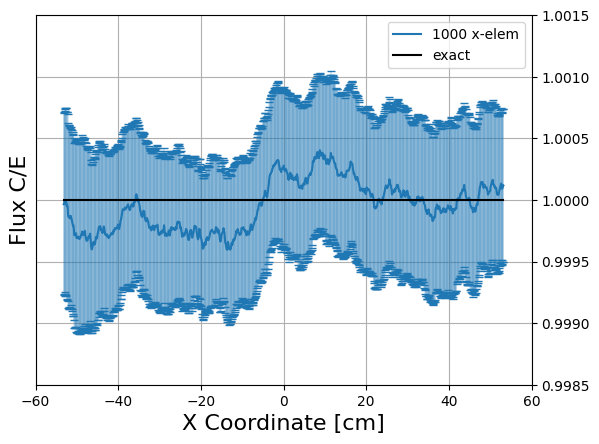
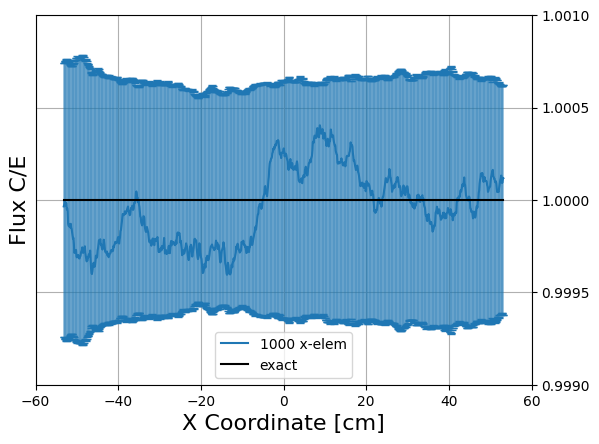
added error bars to C/E line instead

diff --git a/simulations/no_ss_no_mesh_template/restarts/re-viz/visualize_results_flux_only.py b/simulations/no_ss_no_mesh_template/restarts/re-viz/visualize_results_flux_only.py
@@ -18,9 +18,10 @@ Sig_t0 = np.sqrt(P/((lam-1)*k0*L))/(T0)
 
 # read in x coordinates from CSV
 xx = {} # key is number of elements, value is numpy array of mesh center points
+ones = {} # need a ones vector of every mesh size for the C/E
 for n in n_elems:
     xx[n] = pd.read_csv(f"openmc_{n}_temp.csv").loc[:,"x"]
-ones = np.ones(len(xx[1000]))
+    ones[n] = np.ones(len(xx[n]))
 
 # dictionaries of statepoint filenames and voxel volumes
 # key in each case is n (the number of mesh elements).
@@ -128,7 +129,7 @@ plt.clf()
 for n in n_elems:
     plt.plot(xx[n],ratios_flux_num_to_analy[n],label=f"{n} x-elem")
     # plt.errorbar(xx[n],ratios_flux_num_to_analy[n],yerr=two_sigma_r[n],marker = '|',fmt='none',elinewidth=0.25,capsize=3,capthick=1)
-plt.plot(xx[1000],ones,'k',label="exact")
+plt.plot(xx[n],ones[n],'k',label="exact")
 plt.xticks([-60,-40,-20,0,20,40,60])
 plt.yticks([1-0.6e-3,1-0.4e-3,1-0.2e-3,1,1+0.2e-3,1+0.4e-3,1+0.6e-3])
 plt.xlabel("X Coordinate [cm]",fontsize=16)
@@ -144,10 +145,10 @@ plt.clf()
 # individual C/E with error bars
 for n in n_elems:
     plt.plot(xx[n],ratios_flux_num_to_analy[n],label=f"{n} x-elem")
-    plt.errorbar(xx[n],ratios_flux_num_to_analy[n],yerr=two_sigma_r[n],marker = '|',fmt='none',elinewidth=0.25,capsize=3,capthick=1)
-    plt.plot(xx[1000],ones,'k',label="exact")
+    plt.errorbar(xx[n],ones[n],yerr=two_sigma_r[n],marker = '|',fmt='none',elinewidth=0.35,capsize=3,capthick=1)
+    plt.plot(xx[n],ones[n],'k',label="exact")
     plt.xticks([-60,-40,-20,0,20,40,60])
-    plt.yticks([1-1.5e-3,1-1e-3,1-0.5e-3,1,1+0.5e-3,1+1e-3,1+1.5e-3])
+    plt.yticks([1-1e-3,1-0.5e-3,1,1+0.5e-3,1+1e-3])
     plt.xlabel("X Coordinate [cm]",fontsize=16)
     plt.ylabel(r"Flux C/E",fontsize=16)
     plt.gca().yaxis.tick_right()
@@ -163,7 +164,7 @@ log_flux_error_norms = [np.log10(flux_error_norms[n]) for n in n_elems]
 # # linear polynomial fit to get slope of line of best fit
 # pf = np.polyfit(log_N,log_flux_error_norms,1)
 # print("polyfit:" , pf)
-print(log_flux_error_norms)
+
 # plot mesh elements vs flux error norms
 plt.plot(log_N,log_flux_error_norms,'-o',label=r'$\epsilon_{\phi}=\frac{||\phi_{a} - \phi_{x} ||_{2}}{|| \phi_{a} ||_{2}}$')
 plt.xlabel(r"Log of number of X elements $\log(N)$",fontsize=16)
